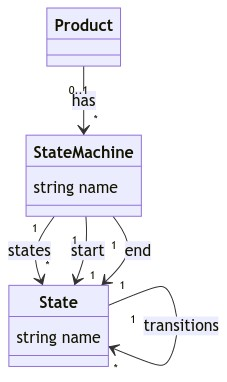
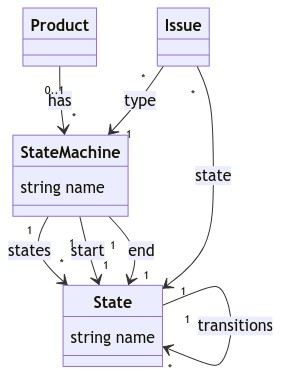
Updated state model

Changed region(s): [[0.0308, 0.0, 0.8326, 0.9791], [0.6167, 0.7775, 0.9868, 0.9215]]

diff --git a/documentation/models/state.md b/documentation/models/state.md
@@ -11,4 +11,6 @@ classDiagram
     StateMachine "1" --> "1" State : start
     StateMachine "1" --> "1" State : end
     State "1" --> "*" State : transitions
+    Issue "*" --> "1" StateMachine : type
+    Issue "*" --> "1" State : state
 ```
